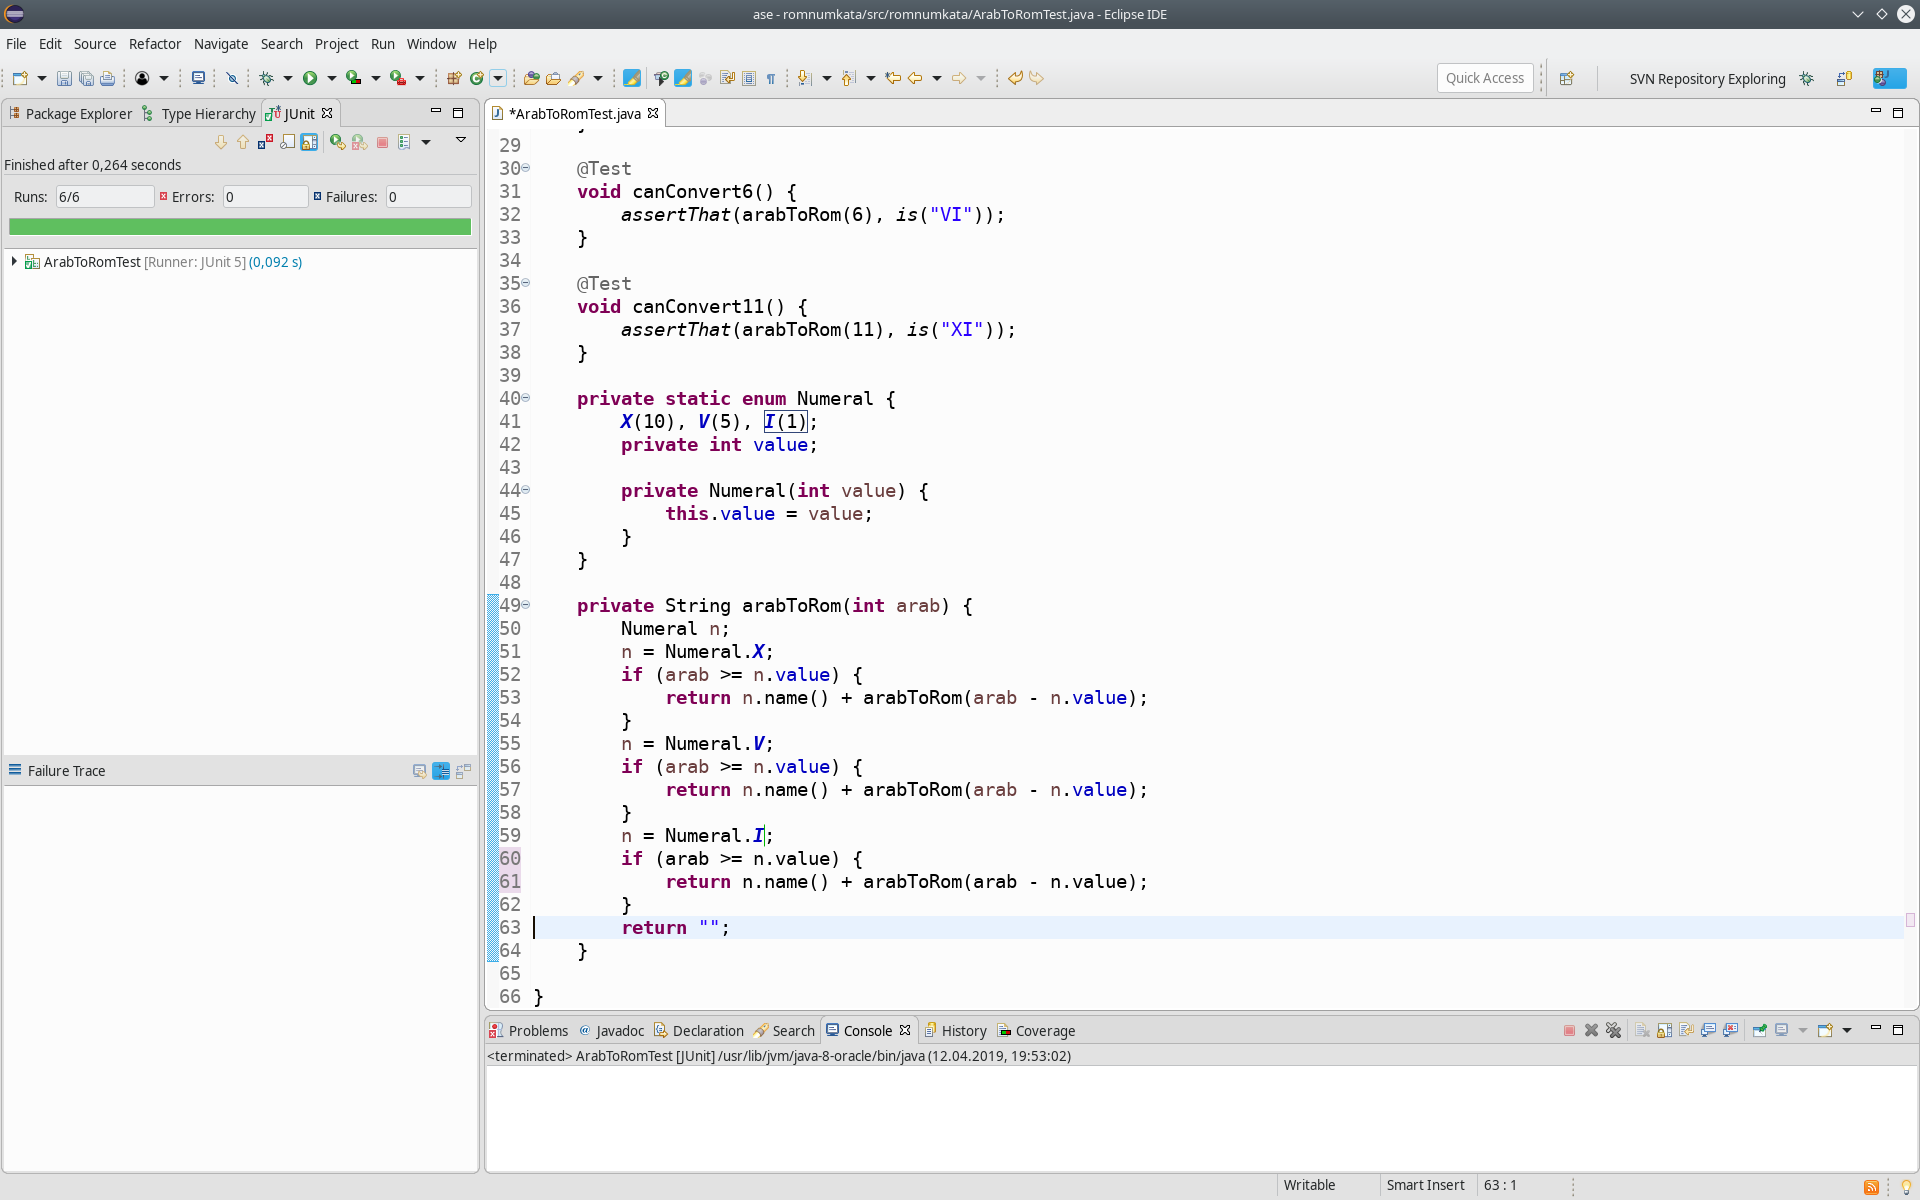
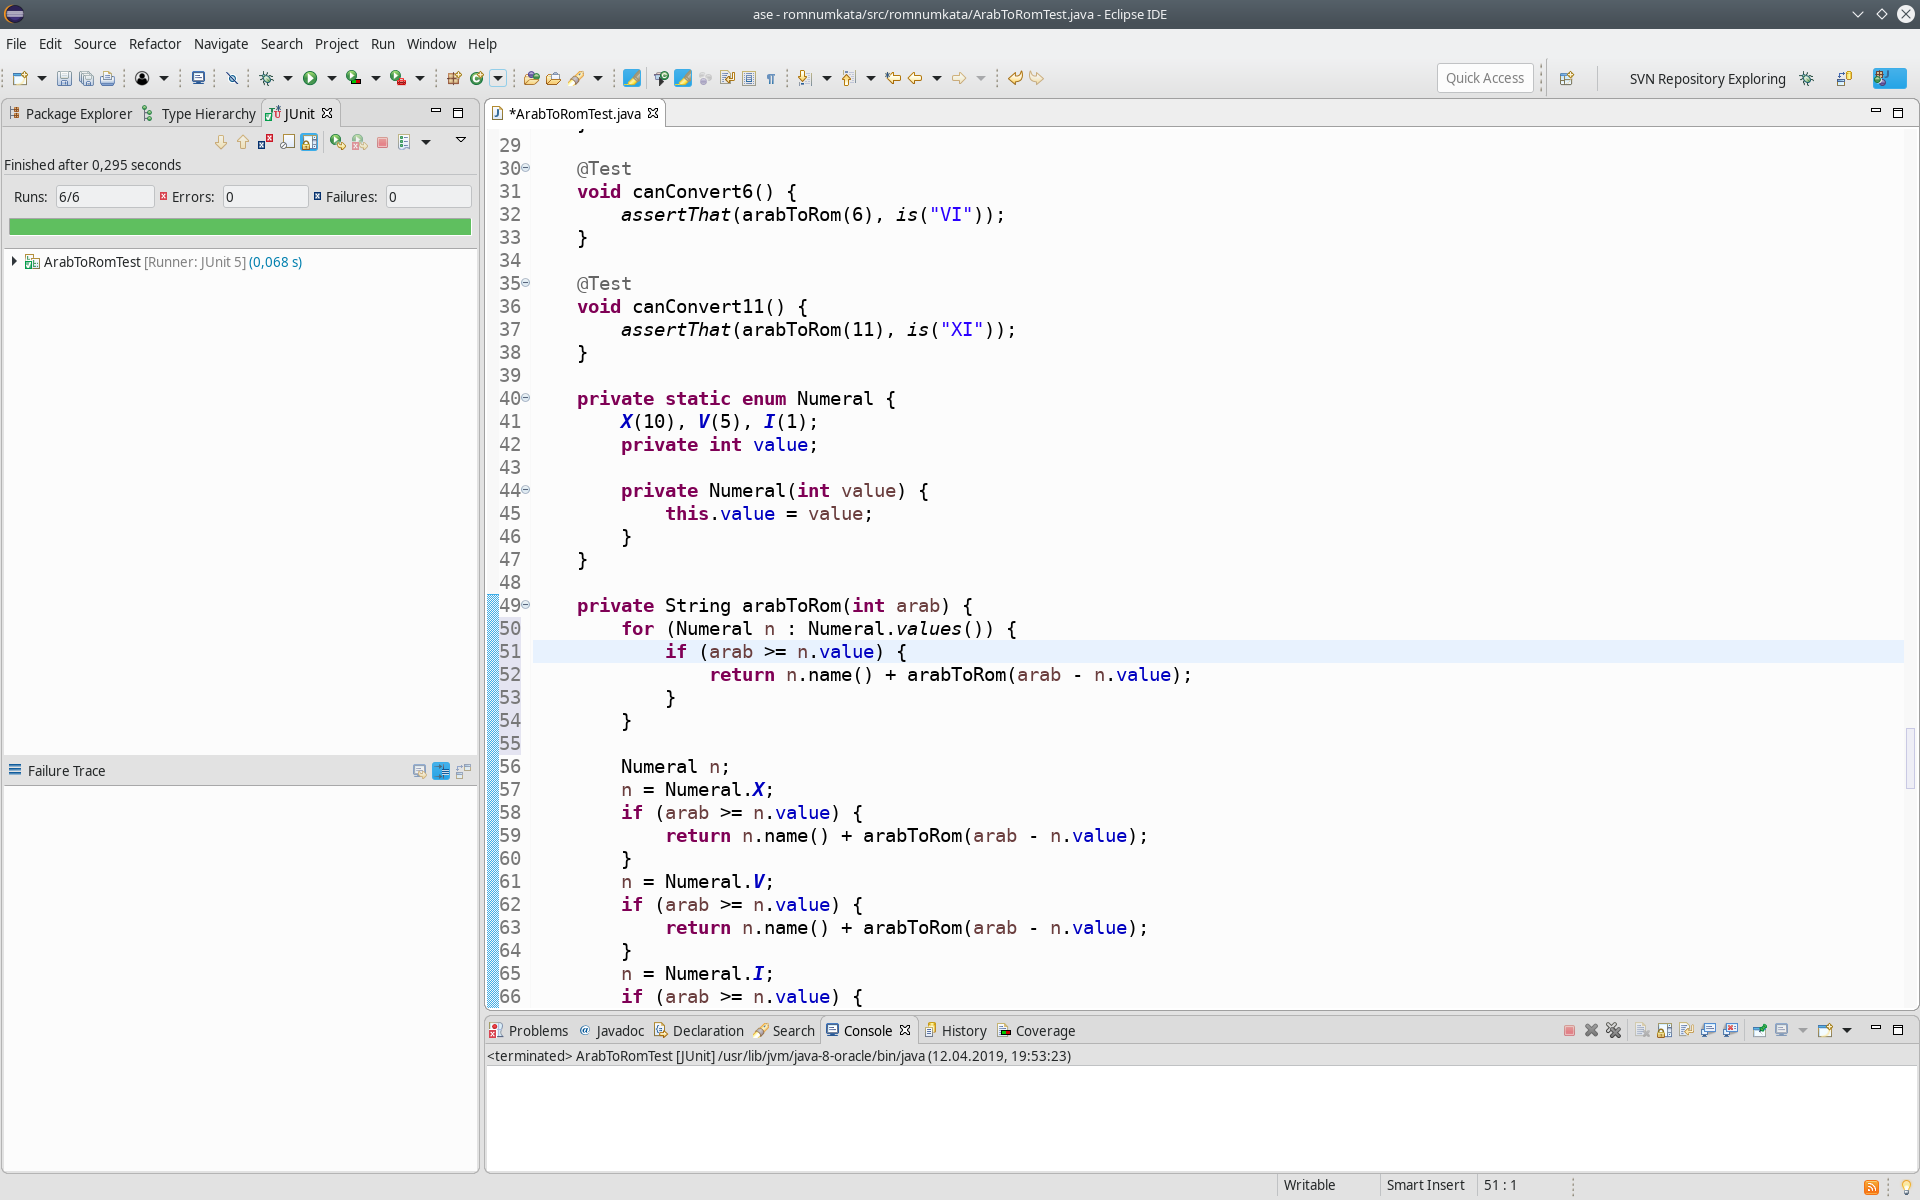
autocommit on change

diff --git a/src/romnumkata/ArabToRomTest.java b/src/romnumkata/ArabToRomTest.java
@@ -47,6 +47,12 @@ public class ArabToRomTest {
 	}
 
 	private String arabToRom(int arab) {
+		for (Numeral n : Numeral.values()) {
+			if (arab >= n.value) {
+				return n.name() + arabToRom(arab - n.value);
+			}
+		}
+		
 		Numeral n;
 		n = Numeral.X;
 		if (arab >= n.value) {
